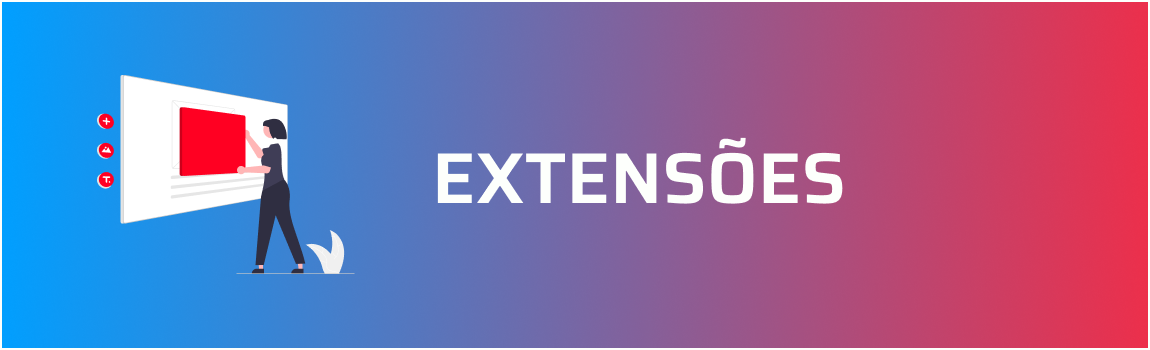
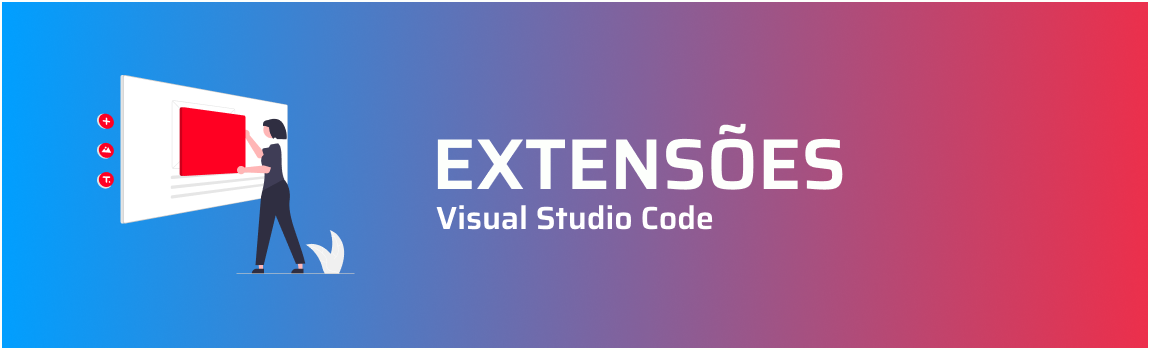
extensões completas

Changed region(s): [[0.3652, 0.3429, 0.7304, 0.6571]]

diff --git a/pages/extensoes.md b/pages/extensoes.md
@@ -1,47 +1,97 @@
 <img src="../assets/banners/extensoes.png">
 
-> O Visual Studio Code é o mais poderoso editr de código gratuito que todo desenvolvedor tem a sua disposição.
-> Com uma grande variedade de extensões que podem aumentar muito a sua produtividade.
+> O Visual Studio Code é o mais poderoso editor de código gratuito que todo desenvolvedor tem a sua disposição.
+> Com uma grande variedade de extensões que podem aumentar muito a sua produtividade a disposição de todos. Aqui, uma seleção das melhores extenções com foco na produtividade.
+
+---
 
 ### Live Server
 
 <img src="../assets/banners/extensions/liveserver.png">
 
-Essa extensão irá criar um servidor local com atualização instantanea, perfeito para quando você estiver desenvovendo algum site e não quer dar F5 a cada código escrito.
+Essa extensão irá criar um servidor local com atualização instantanea, perfeito para quando você estiver desenvolvendo algum site e não precisar atualizar manualmente a página.
 
 [Instalar Live Server](https://marketplace.visualstudio.com/items?itemName=ritwickdey.LiveServer)
 
+---
 
 ### Color Highlight
 
 <img src="../assets/banners/extensions/colorhighlight.png">
 
-Quando você digitar algum código de cor (Ex: #F3D200) essa extensão irá identificar e exibir ela no editor de código.
+Quando você digitar algum código de cor (Ex: #F3D200) essa extensão irá identificar a cor e exibi-la no editor de código para uma melhor visualização.
 
 [Instalar Color Hightlight](https://marketplace.visualstudio.com/items?itemName=naumovs.color-highlight)
 
+---
+
+<img src="../assets/banners/extensions/live-share.png">
 
 ### Live Share
 
-Para quando você precisar de ajuda com um código de forma remota o Live Share permite que duas pessoas possam trabalhar no mesmo código.
+Quando você precisar de ajuda com um código de forma remota o Live Share permite que duas pessoas possam trabalhar no mesmo código de forma eficiente.
 
-### Prettier
+[Instalar Live Share](https://marketplace.visualstudio.com/items?itemName=MS-vsliveshare.vsliveshare)
+
+---
+
+<img src="../assets/banners/extensions/prettier.png">
+
+### Prettier 
 
 Poderosa extensão que formata automaticamente o seu código, isso é otimo para manter um padrão de formatação em todo trabalho.
 
+[Instalar Prettier](https://marketplace.visualstudio.com/items?itemName=esbenp.prettier-vscode)
+
+---
+
+<img src="../assets/banners/extensions/rainbowbrackets.png">
+
 ### Rainbow Brackets
 
+Essa extensão adicionará cores aos os parenteses, colchetes e chaves ((), [], {}) assim você terá uma melhor visualização do códigos e saberá ao certo onde começa e termina cada bloco de código.
 
+[Instalar Rainbow Brackets](https://marketplace.visualstudio.com/items?itemName=2gua.rainbow-brackets)
+
+---
+
+<img src="../assets/banners/extensions/codesnap.png">
 
 ### CodeSnap
 
+Caso você precise tranformar o seu código em imagem para alguma divulgação ou coisa do tipo, o CodeSnap fará isso dá melhor forma.
 
+[Instalar CodeSnap](https://marketplace.visualstudio.com/items?itemName=adpyke.codesnap)
+
+---
+
+<img src="../assets/banners/extensions/intellicode.png">
 
 ### Intellicode
 
+O Intellicode irá te ajudar dando sugestões de preenchimento de código conforme a linguagem que você estiver utilizando.
 
+[Instalar IntelliCode](https://marketplace.visualstudio.com/items?itemName=VisualStudioExptTeam.vscodeintellicode)
 
-### Indent-Rainbow
+---
 
+<img src="../assets/banners/extensions/indent-rainbow.png">
 
+### indent-rainbow
+
+Essa extensão irá adicionar cores a identação do seu código para uma melhor visualização dos blocos semparadamente.
+
+[Instalar indent-rainbow](https://marketplace.visualstudio.com/items?itemName=oderwat.indent-rainbow)
+
+---
+
+<img src="../assets/banners/extensions/markdown-preview.png">
+
+### Markdown Preview Enhanced
+
+Quando for excrever o README ou qualquer markdown (.md) no seu código essa extenção irá te proporcionar uma visualização do que você está fazendo.
+
+[Instalar Markdown Preview Enhanced](https://marketplace.visualstudio.com/items?itemName=shd101wyy.markdown-preview-enhanced)
+
+---
 

diff --git a/pages/plugins.md b/pages/plugins.md
@@ -1,0 +1,3 @@
+<img src="../assets/banners/plugins.png">
+
+### ⚠ Ainda em construção, volte mais tarde...⚠
